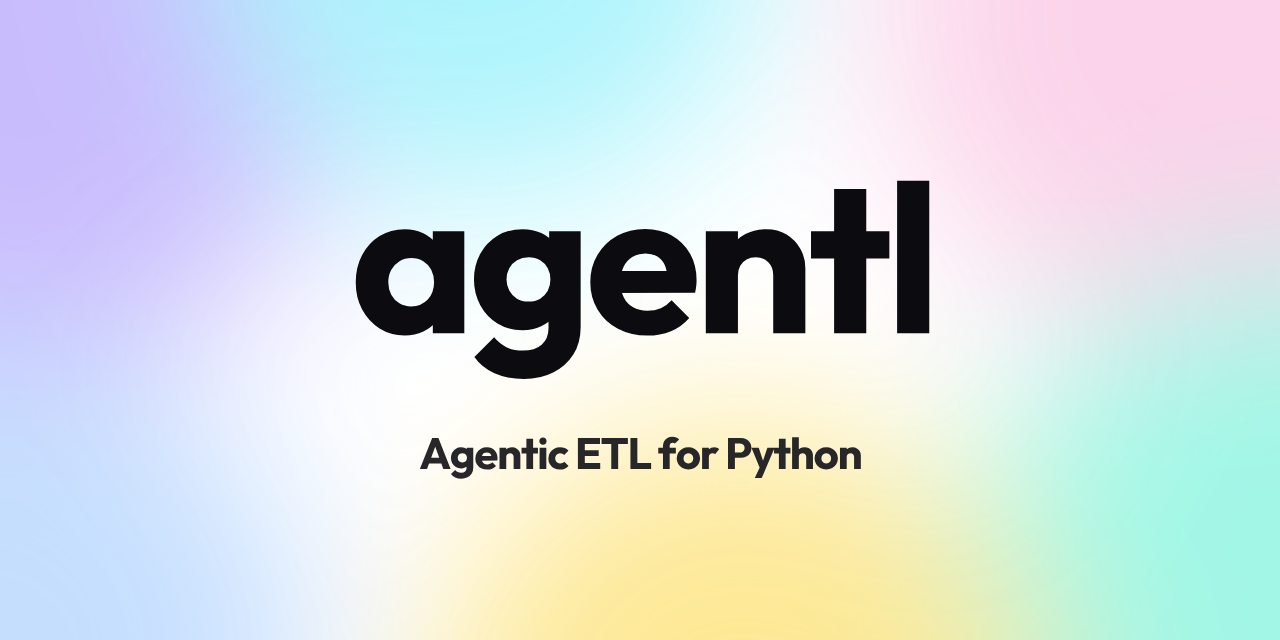
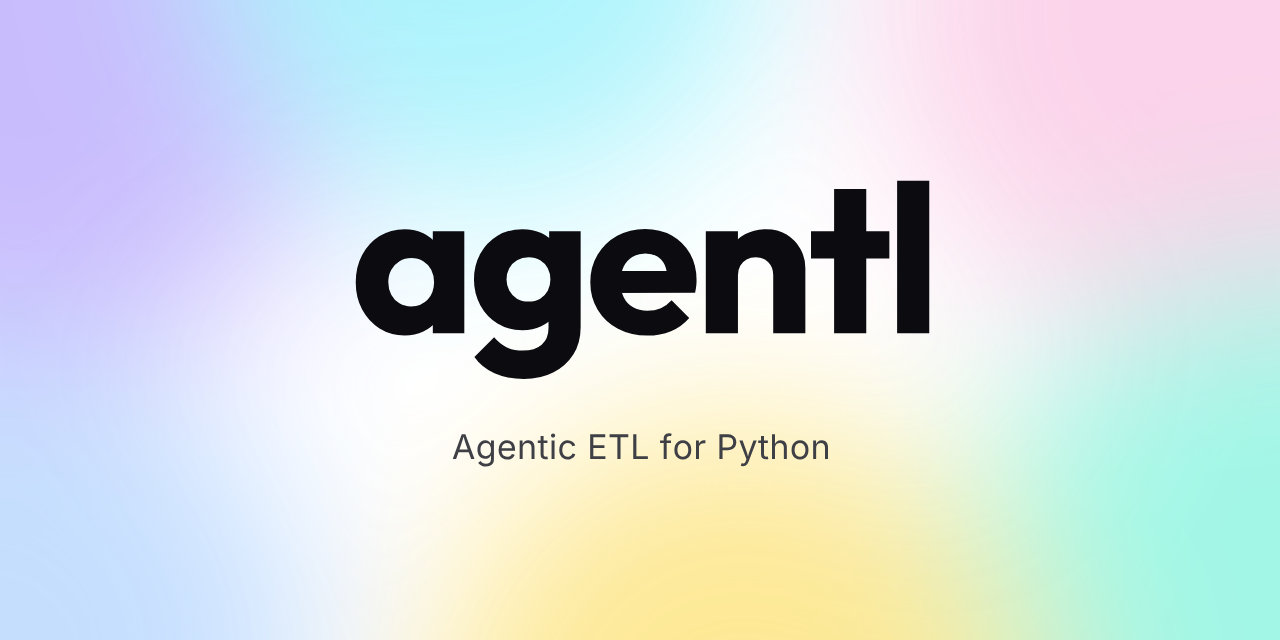
docs: lighter Inter subtitle on the social preview
Claude-Session: https://claude.ai/code/session_01RVBXEqKMifmDi1ydWBoGx7

Changed region(s): [[0.3125, 0.6562, 0.6875, 0.75]]

diff --git a/media/brand/build.py b/media/brand/build.py
@@ -19,6 +19,7 @@ from fontTools.ttLib import TTFont
 
 HERE = Path(__file__).parent
 FONT = TTFont(HERE / "font" / "outfit-latin-700-normal.woff2")
+TEXT_FONT = TTFont(HERE / "font" / "inter-latin-400-normal.woff2")  # supporting text
 OUT = HERE / "assets"
 TRACKING = -0.03  # em, slightly tighter than default
 
@@ -27,11 +28,13 @@ INK_LIGHT = "#0b0b10"  # on light backgrounds
 BG_DARK = "#07070b"
 
 
-def outline(text: str, size: float) -> tuple[str, float, float, float]:
+def outline(
+    text: str, size: float, font: TTFont = FONT, tracking: float = TRACKING
+) -> tuple[str, float, float, float]:
     """Return (svg path, width, top, bottom) for `text` at `size` px."""
-    glyphs = FONT.getGlyphSet()
-    cmap = FONT.getBestCmap()
-    upm = FONT["head"].unitsPerEm
+    glyphs = font.getGlyphSet()
+    cmap = font.getBestCmap()
+    upm = font["head"].unitsPerEm
     scale = size / upm
     pen = SVGPathPen(glyphs)
     bounds = BoundsPen(glyphs)
@@ -42,7 +45,7 @@ def outline(text: str, size: float) -> tuple[str, float, float, float]:
         t = (scale, 0, 0, -scale, x * scale, 0)
         glyphs[name].draw(TransformPen(pen, t))
         glyphs[name].draw(TransformPen(bounds, t))
-        x += glyphs[name].width + TRACKING * upm
+        x += glyphs[name].width + tracking * upm
     _x_min, y_min, x_max, y_max = bounds.bounds
     return pen.getCommands(), x_max, y_min, y_max
 
@@ -82,7 +85,7 @@ def social(width: int = 1280, height: int = 640) -> str:
     d, w, top, bottom = outline("agentl", 210)
     gx = (width - w) / 2
     gy = height / 2 - 40 - (top + bottom) / 2
-    tag, tw, _ttop, _tbot = outline("Agentic ETL for Python", 44)
+    tag, tw, _ttop, _tbot = outline("Agentic ETL for Python", 34, TEXT_FONT, 0.01)
     blobs = "".join(
         f'<circle cx="{x * width:.0f}" cy="{y * height:.0f}" r="{r * width:.0f}" fill="{col}"/>'
         for x, y, r, col in BLOBS
@@ -94,7 +97,7 @@ def social(width: int = 1280, height: int = 640) -> str:
         f'<rect width="{width}" height="{height}" fill="#ffffff"/>'
         f'<g filter="url(#soft)" opacity=".9">{blobs}</g>'
         f'<path transform="translate({gx:.1f} {gy:.1f})" d="{d}" fill="{INK_LIGHT}"/>'
-        f'<path transform="translate({(width - tw) / 2:.1f} {gy + bottom + 90:.1f})" d="{tag}" fill="#27272a"/>'
+        f'<path transform="translate({(width - tw) / 2:.1f} {gy + bottom + 80:.1f})" d="{tag}" fill="#3f3f46"/>'
         "</svg>"
     )
 
